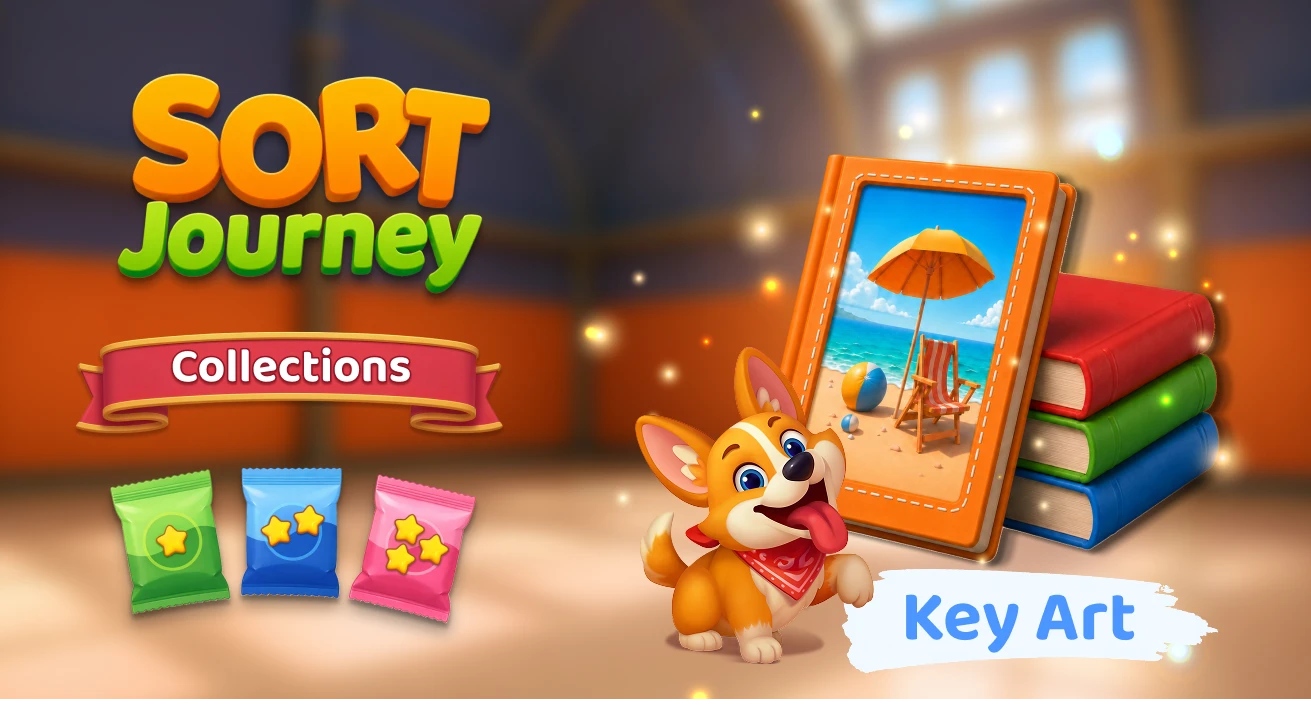
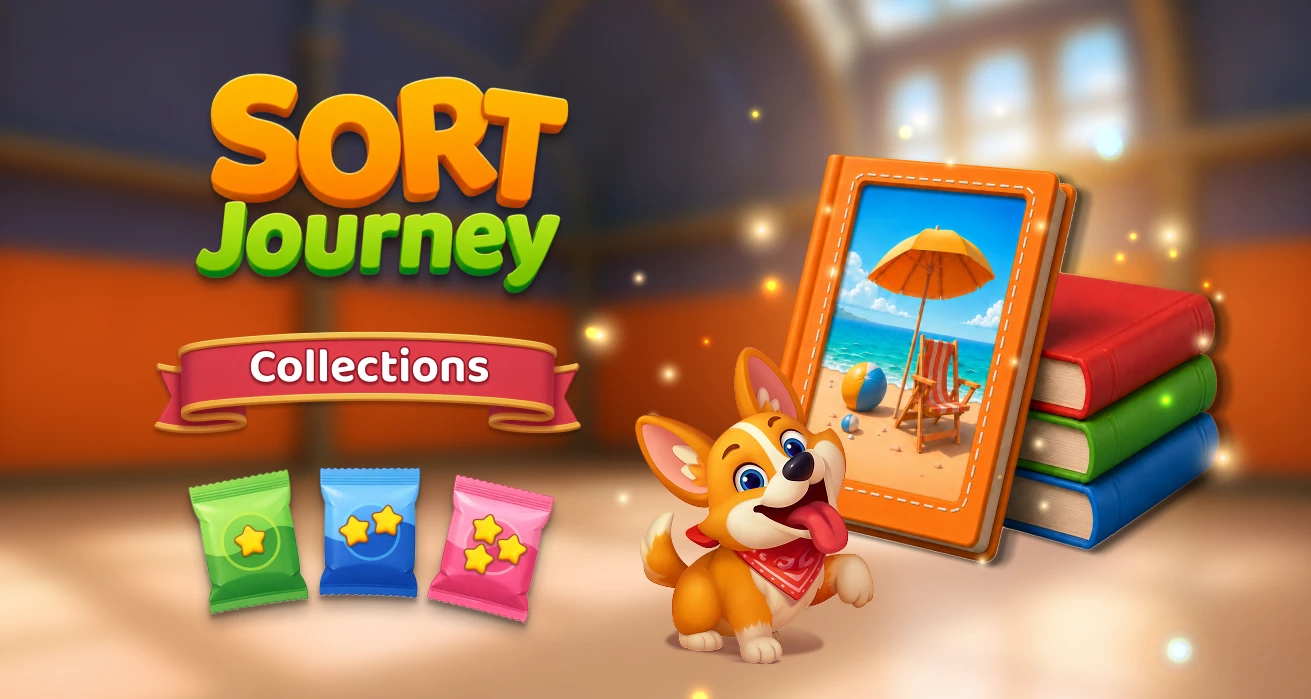
Sort Journey: the reworked key art, made for cropping
The new image keeps the logo, the sticker packs, the corgi and the
albums inside the centre, so it no longer needs a crop offset. Checked
at the 16:9 home tile (three widths) and the 4:3 work-index tile.

Claude-Session: https://claude.ai/code/session_01XFxHD8w4HQtLUnRGHytL8t

diff --git a/src/data/projects.ts b/src/data/projects.ts
@@ -54,7 +54,7 @@ export interface Project {
 
 const raw: Project[] = [
   { slug: 'next-games', title: 'Next Games', client: 'Puzzle games app', year: 2023, disciplines: ['Digital', 'Motion'], art: 'grid', palette: ['#eaf3ff', '#0b1a30', '#3a8dff'], caseStudy: true, featured: true, role: 'Product designer', cover: '/covers/next-games.png', coverAlt: 'Phone showing the Home screen with the recent games sheet pulled up', prototype: '/prototypes/next-games/index.html', summary: 'Puzzle cards on the Home screen: pick up the game you left, or pull the card up to see every game in progress.' },
-  { slug: 'sort-journey', title: 'Sort Journey', client: 'Bluetile Games', year: 2026, disciplines: ['Art direction', 'Illustration'], art: 'stack', palette: ['#c8622a', '#2b2f5e', '#f6a623'], caseStudy: false, featured: true, cover: '/covers/sort-journey.webp', coverAlt: 'Sort Journey key art for the Collections feature: the game logo, three sticker packs, a corgi and a stack of photo albums', coverPosition: '30% 50%', link: { label: 'Sort Journey on Google Play', href: 'https://play.google.com/store/apps/details?id=com.playgames.sorting' }, summary: 'Key art for Collections, a feature of Sort Journey, a travel puzzle game by Bluetile Games.' },
+  { slug: 'sort-journey', title: 'Sort Journey', client: 'Bluetile Games', year: 2026, disciplines: ['Art direction', 'Illustration'], art: 'stack', palette: ['#c8622a', '#2b2f5e', '#f6a623'], caseStudy: false, featured: true, cover: '/covers/sort-journey.webp', coverAlt: 'Sort Journey key art for the Collections feature: the game logo, three sticker packs, a corgi and a stack of photo albums', link: { label: 'Sort Journey on Google Play', href: 'https://play.google.com/store/apps/details?id=com.playgames.sorting' }, summary: 'Key art for Collections, a feature of Sort Journey, a travel puzzle game by Bluetile Games.' },
   { slug: 'harbor-tea', title: 'Harbor Tea Co.', client: 'Harbor Tea Co.', year: 2026, disciplines: ['Packaging', 'Branding'], art: 'stack', palette: ['#0f3d3a', '#f3e6c8', '#e0763c'], caseStudy: true, role: 'Brand and packaging lead', summary: 'Sample project. A tin system for a small-batch tea importer, where each blend gets its own harbour flag.' },
   { slug: 'lumen-clinic', title: 'Lumen Clinic', client: 'Lumen Clinic', year: 2025, disciplines: ['Branding', 'Digital'], art: 'sun', palette: ['#f2efe8', '#1b2a4a', '#f2a93b'], caseStudy: true, featured: true, role: 'Identity and web design', summary: 'Sample project. A calmer identity for a family clinic, built around morning light rather than medical blue.' },
   { slug: 'kiln-and-co', title: 'Kiln & Co.', client: 'Kiln & Co. Ceramics', year: 2024, disciplines: ['Packaging', 'Illustration'], art: 'arch', palette: ['#c8553d', '#fbeee0', '#2d3047'], caseStudy: true, featured: true, role: 'Packaging and illustration', summary: 'Sample project. Shipping boxes for a ceramics studio, printed with the outline of the piece inside.' },
